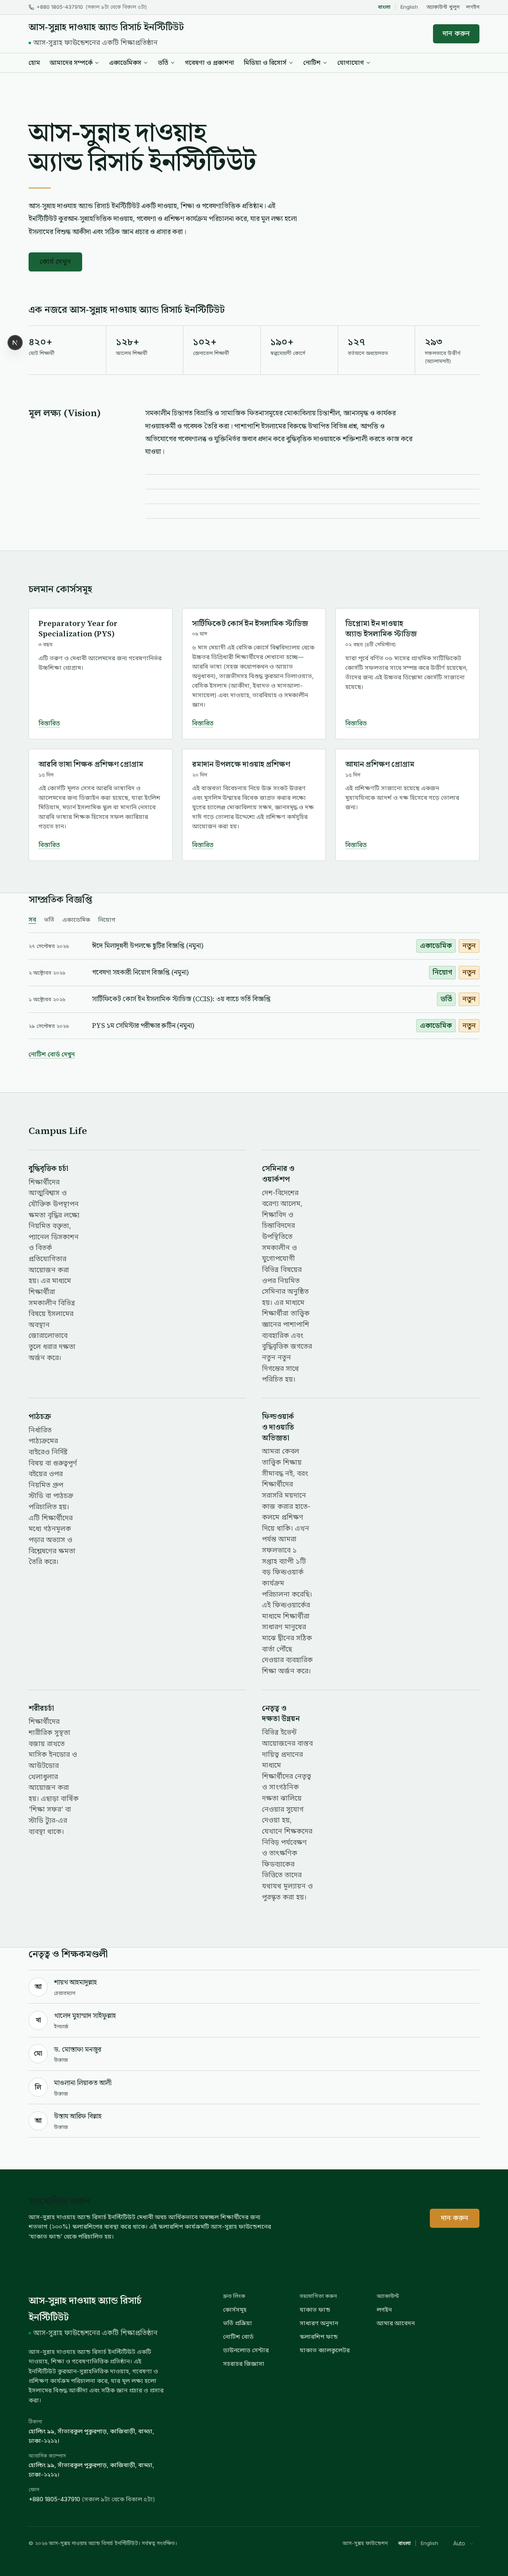
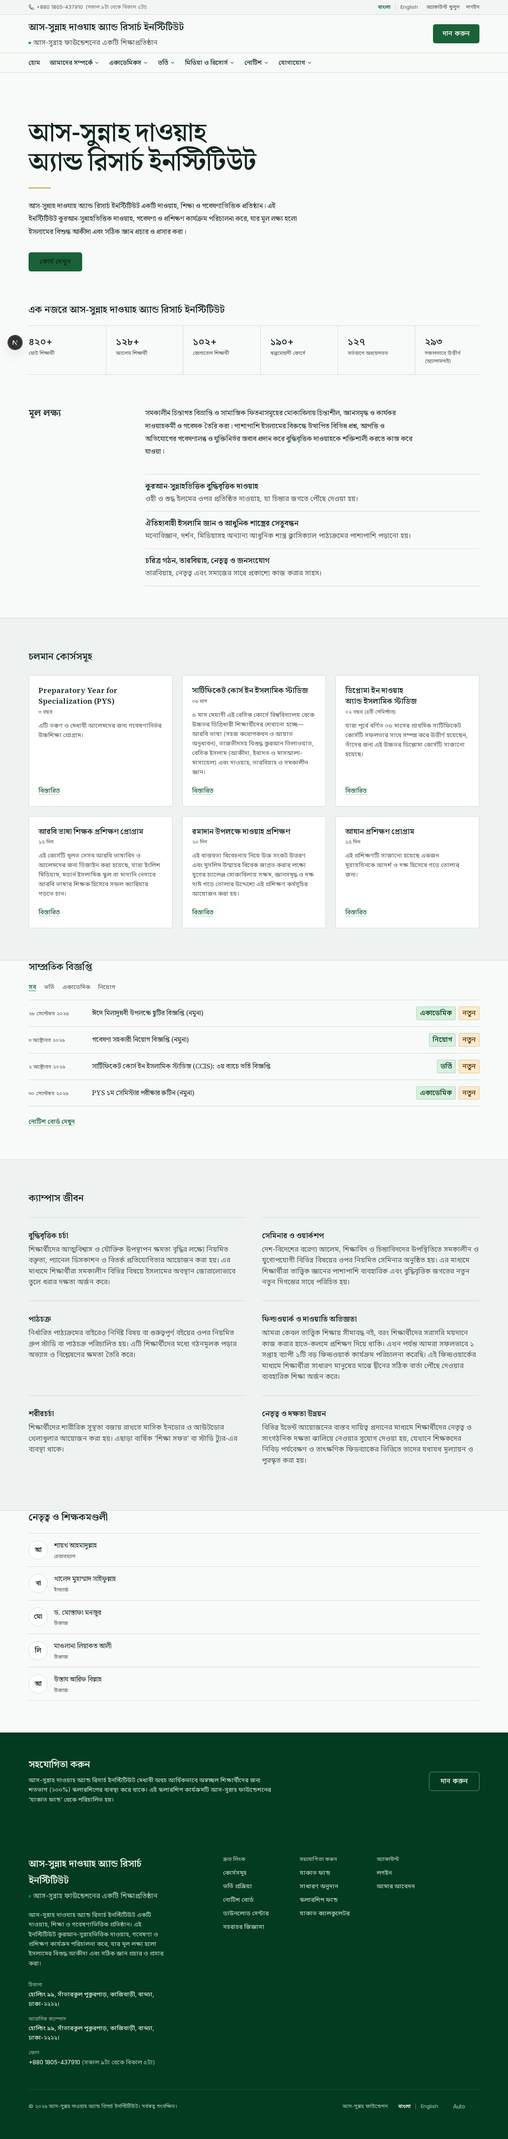
fix(home): review items 1-4, 6, 9, 10 — campus layout, support band, one gold, dead nav parents, baseline docs, Bangla headings and pillar drafts
1. CampusSection reserves the two-column image template only when an item
   actually has an image; image-less items (the current state, GAP-C6 photo
   slots) get a full-width single column instead of a 8rem ribbon of text.
2. SupportSection h2 carries text-primary-foreground: the global h1-h6 rule
   paints headings in dark ink, invisible on the dark-green band (measured
   1.02:1; now 17.61:1).
3. One illumination per screen: the donate button is now an outline-on-dark
   treatment (17.6:1 text and border, rest and hover); the hero hairline
   stays the page's single gold. The gold fill measured only 2.87:1 on the
   band; the green default variant's shape blends in at 1.15:1 and the
   secondary variant's dark text fails on hover — notes in the component.
4. Header: a parent that exists only to group children is dropped when every
   child is hidden by its module flag (গবেষণা ও প্রকাশনা no longer renders a
   dead link to /research/library); footer columns with no visible links
   disappear instead of rendering a heading over nothing.
6. infra/README.md documents the snapshot baseline: what it is, why it
   exists, that the generator diffs from the lexicographically latest json,
   and the rule for future parallel branches.
9. Bangla headings seeded: মূল লক্ষ্য and ক্যাম্পাস জীবন (the client's
   mixed-language document printed 'মূল লক্ষ্য (Vision)' and 'Campus Life');
   the client's English forms stay in the en locale.
[…]

diff --git a/src/endpoints/seed/home.ts b/src/endpoints/seed/home.ts
@@ -7,10 +7,13 @@
  * Composed headings flagged for the office (the documents give them only in English):
  *  - notices heading "সাম্প্রতিক বিজ্ঞপ্তি" (the document's section is simply বিজ্ঞপ্তি)
  *  - people heading "নেতৃত্ব ও শিক্ষকমণ্ডলী"
- * The three pillars exist in the client's English document only; Bangla is left empty for the
- * office to provide, and the section renders without them in the meantime. The intro video and
- * campus photos do not exist yet (GAP-C6); the hero stays typographic and the campus list
- * carries no images until they arrive.
+ * Bangla headings the client's mixed-language document printed in English are seeded in
+ * Bangla on the bn side ("মূল লক্ষ্য", "ক্যাম্পাস জীবন"); the client's own English forms stay in
+ * the en locale (review item 9 — the office can change either in the home global).
+ * The Bangla pillar drafts below are translated from the client's English pillars and are
+ * marked as drafts in the PR — the office reviews and replaces them (review item 10). The
+ * intro video and campus photos do not exist yet (GAP-C6); the hero stays typographic and
+ * the campus list carries no images until they arrive.
  */
 export const homeSeed = {
   bn: {
@@ -30,10 +33,25 @@ export const homeSeed = {
       {
         blockType: 'vision',
         enabled: true,
-        heading: 'মূল লক্ষ্য (Vision)',
+        heading: 'মূল লক্ষ্য',
         statement:
           'সমকালীন চিন্তাগত বিভ্রান্তি ও সামাজিক ফিতনাসমূহের মোকাবিলায় চিন্তাশীল, জ্ঞানসমৃদ্ধ ও কার্যকর দাওয়াহকর্মী ও গবেষক তৈরি করা। পাশাপাশি ইসলামের বিরুদ্ধে উত্থাপিত বিভিন্ন প্রশ্ন, আপত্তি ও অভিযোগের গবেষণালব্ধ ও যুক্তিনির্ভর জবাব প্রদান করে বুদ্ধিবৃত্তিক দাওয়াহকে শক্তিশালী করতে কাজ করে যাওয়া।',
-        pillars: [],
+        // BN draft from the client's English pillars (review item 10) — the office confirms or
+        // replaces these three; the EN versions are the client's own words.
+        pillars: [
+          {
+            title: 'কুরআন-সুন্নাহভিত্তিক বুদ্ধিবৃত্তিক দাওয়াহ',
+            body: 'ওহী ও শুদ্ধ ইলমের ওপর প্রতিষ্ঠিত দাওয়াহ, যা চিন্তার জগতে পৌঁছে দেওয়া হয়।',
+          },
+          {
+            title: 'ঐতিহ্যবাহী ইসলামি জ্ঞান ও আধুনিক শাস্ত্রের সেতুবন্ধন',
+            body: 'মনোবিজ্ঞান, দর্শন, মিডিয়াসহ অন্যান্য আধুনিক শাস্ত্র ক্লাসিক্যাল পাঠ্যক্রমের পাশাপাশি পড়ানো হয়।',
+          },
+          {
+            title: 'চরিত্র গঠন, তারবিয়াহ, নেতৃত্ব ও জনসংযোগ',
+            body: 'তারবিয়াহ, নেতৃত্ব এবং সমাজের সাথে প্রকাশ্যে কাজ করার সাহস।',
+          },
+        ],
       },
       {
         blockType: 'programmes',
@@ -55,7 +73,7 @@ export const homeSeed = {
       {
         blockType: 'campusLife',
         enabled: true,
-        heading: 'Campus Life',
+        heading: 'ক্যাম্পাস জীবন',
         items: [
           {
             title: 'বুদ্ধিবৃত্তিক চর্চা',

diff --git a/src/components/home/SupportSection.tsx b/src/components/home/SupportSection.tsx
@@ -12,9 +12,12 @@ type SupportBlock = Extract<NonNullable<Home['sections']>[number], { blockType: 
 
 /**
  * The single calm support band (REQ-HOME-10, phase 1 scope): the dark-green band shared with
- * the Foundation's site, one line about where the money goes, and the one illuminated button
- * leading to the donation page. No fund grid, no calculator here yet — those belong to the
- * donation module with its own screens.
+ * the Foundation's site, one line about where the money goes, and the button leading to the
+ * donation page. No fund grid, no calculator here yet — those belong to the donation module
+ * with its own screens. The hero hairline is the home page's single gold (docs/05 §3b); the
+ * button here is an outline-on-dark treatment — measured 17.6:1 text and border against the
+ * band in rest and hover (review items 2–3; `secondary`'s dark text fails on its hover state
+ * over the band, and the green `default` shape blends into the band at 1.15:1).
  */
 export function SupportSection({
   block,
@@ -36,7 +39,9 @@ export function SupportSection({
       <div className="container">
         <div className="grid items-center gap-8 md:grid-cols-12">
           <div className="md:col-span-8">
-            <h2 className="font-serif text-h3 font-semibold">{block.heading}</h2>
+            <h2 className="font-serif text-h3 font-semibold text-primary-foreground">
+              {block.heading}
+            </h2>
             {block.body && (
               <p className="mt-3 max-w-[68ch] text-small leading-relaxed text-primary-foreground/85">
                 {block.body}
@@ -44,7 +49,12 @@ export function SupportSection({
             )}
           </div>
           <div className="md:col-span-4 md:justify-self-end">
-            <Button asChild variant="illuminated" size="lg">
+            <Button
+              asChild
+              variant="outline"
+              size="lg"
+              className="border-primary-foreground/50 text-primary-foreground hover:border-primary-foreground hover:bg-primary-foreground/10 hover:text-primary-foreground"
+            >
               <Link href={localizedHref(locale, '/donate')}>{block.ctaLabel || dict.header.donate}</Link>
             </Button>
           </div>

diff --git a/src/components/home/CampusSection.tsx b/src/components/home/CampusSection.tsx
@@ -4,6 +4,7 @@ import React from 'react'
 import type { Home, Media } from '@/payload-types'
 
 import { getMediaUrl } from '@/utilities/getMediaUrl'
+import { cn } from '@/utilities/ui'
 
 type CampusBlock = Extract<
   NonNullable<Home['sections']>[number],
@@ -28,10 +29,16 @@ export function CampusSection({ block }: { block: CampusBlock }) {
           {items.map((item, i) => {
             const image =
               item.image && typeof item.image === 'object' ? (item.image as Media) : null
+            // The two-column template (image | text) is reserved only when an image actually
+            // exists; without one the item is a single full-width column (review item 1).
+            const hasImage = Boolean(image?.url)
             return (
               <li
                 key={item.id ?? i}
-                className="grid gap-4 border-t border-border py-8 sm:grid-cols-[8rem_minmax(0,1fr)] sm:gap-x-8"
+                className={cn(
+                  'grid gap-4 border-t border-border py-8 sm:gap-x-8',
+                  hasImage && 'sm:grid-cols-[8rem_minmax(0,1fr)]',
+                )}
               >
                 {image?.url && (
                   <span className="relative block aspect-[4/3] overflow-hidden rounded-sm border border-border">

diff --git a/src/components/site/Header/index.tsx b/src/components/site/Header/index.tsx
@@ -27,19 +27,27 @@ export async function SiteHeader({ locale }: { locale: Locale }) {
 
   const items: NavItem[] = (nav.primary ?? [])
     .filter((item) => enabled(item.feature))
-    .map((item) => ({
-      label: item.label,
-      href: href(item.href),
-      newTab: Boolean(item.newTab),
-      children: (item.children ?? [])
+    .flatMap((item) => {
+      const children = (item.children ?? [])
         .filter((child) => enabled(child.feature))
         .map((child) => ({
           label: child.label,
           href: href(child.href),
           newTab: Boolean(child.newTab),
           description: child.description ?? undefined,
-        })),
-    }))
+        }))
+      // A parent that exists only to group children disappears when every child is hidden
+      // by its module flag — its own href leads to a page that does not exist (review item 4).
+      if ((item.children?.length ?? 0) > 0 && children.length === 0) return []
+      return [
+        {
+          label: item.label,
+          href: href(item.href),
+          newTab: Boolean(item.newTab),
+          children,
+        },
+      ]
+    })
 
   const utility: NavItem[] = (nav.utility ?? [])
     .filter((item) => enabled(item.feature))

diff --git a/src/components/site/Footer/index.tsx b/src/components/site/Footer/index.tsx
@@ -44,10 +44,14 @@ export async function SiteFooter({ locale }: { locale: Locale }) {
       : null
   const logo = settings.logo && typeof settings.logo === 'object' ? (settings.logo as Media) : null
   const year = formatNumber(new Date().getFullYear(), locale, { useGrouping: false })
-  const columns = (nav.footerColumns ?? []).map((col) => ({
-    label: col.label,
-    links: (col.links ?? []).filter((l) => enabled(l.feature)),
-  }))
+  // A column whose every link is hidden by its module flag disappears rather than rendering
+  // its heading above nothing (review item 4, same rule as the header's parent items).
+  const columns = (nav.footerColumns ?? [])
+    .map((col) => ({
+      label: col.label,
+      links: (col.links ?? []).filter((l) => enabled(l.feature)),
+    }))
+    .filter((col) => col.links.length > 0)
 
   return (
     <footer className="mt-auto bg-primary-deep text-primary-foreground">

diff --git a/src/globals/home/homeBlocks.ts b/src/globals/home/homeBlocks.ts
@@ -66,7 +66,7 @@ export const VisionBlock: Block = {
   labels: { singular: 'Vision & pillars', plural: 'Vision & pillars' },
   fields: [
     enabledField(true),
-    headingField('e.g. মূল লক্ষ্য (Vision)'),
+    headingField('e.g. মূল লক্ষ্য (bn) / Vision (en)'),
     {
       name: 'statement',
       type: 'textarea',
@@ -81,7 +81,7 @@ export const VisionBlock: Block = {
       admin: {
         components: { RowLabel: '@/components/admin/RowLabel#RowLabel' },
         description:
-          'Three pillars under the statement. Empty in Bangla until the office provides translations.',
+          'Three pillars under the statement. English is the client’s own; the Bangla drafts are translated from it for the office to confirm or replace.',
       },
       fields: [
         { name: 'title', type: 'text', localized: true, required: true },

diff --git a/src/payload-types.ts b/src/payload-types.ts
@@ -2586,7 +2586,7 @@ export interface Home {
         | {
             enabled?: boolean | null;
             /**
-             * e.g. মূল লক্ষ্য (Vision)
+             * e.g. মূল লক্ষ্য (bn) / Vision (en)
              */
             heading: string;
             /**
@@ -2594,7 +2594,7 @@ export interface Home {
              */
             statement: string;
             /**
-             * Three pillars under the statement. Empty in Bangla until the office provides translations.
+             * Three pillars under the statement. English is the client’s own; the Bangla drafts are translated from it for the office to confirm or replace.
              */
             pillars?:
               | {

diff --git a/src/components/home/VisionSection.tsx b/src/components/home/VisionSection.tsx
@@ -9,8 +9,9 @@ type VisionBlock = Extract<
 
 /**
  * The vision statement and its three pillars (REQ-HOME-03). The statement is the client's own
- * text in the reading column; the pillars — which the client's document gives in English only —
- * render as a ruled list when present. Not numbered: the pillars are not a sequence.
+ * text in the reading column; the pillars render as a ruled list when present (the client's
+ * document gives them in English; the Bangla ones are seeded drafts for the office to confirm
+ * — review item 10). Not numbered: the pillars are not a sequence.
  */
 export function VisionSection({ block }: { block: VisionBlock }) {
   const pillars = block.pillars ?? []

diff --git a/infra/README.md b/infra/README.md
@@ -24,8 +24,37 @@ Then `bun run dev` from the repo root. RustFS console at http://localhost:9001, 
 - `migrate:create` prompts (interactively) when one run both drops and creates tables or enums
   of the same kind ("created or renamed?"). Avoid the prompt by splitting such a change into two
   migrations: first remove, then add (see the two `site_shell` migrations for an example).
-- Starter content: `bun run seed` writes site settings, navigation and impact stats in bn + en.
-  It is idempotent and never touches collections.
+- Starter content: `bun run seed` writes the site globals (settings, navigation, impact stats,
+  home), and upserts the starter collections (people, courses, sample notices) by slug in bn + en.
+  It is idempotent: re-running overwrites the seeded starter content with the same values and
+  leaves anything the office has added untouched (items are matched by slug).
+
+### The snapshot baseline (`20261003_173205_schema_baseline.json`)
+
+`migrate:create` does not diff against the database or the last applied migration: it diffs the
+current schema against the **lexicographically latest `*.json` snapshot** in `src/migrations/`.
+When several feature branches each carry their own migration, their snapshots each describe a
+different partial schema, so after merging such branches a naive `migrate:create` would try to
+re-create tables that already exist (dropped on another branch, missing on this one).
+
+The baseline file exists to close that gap: it is a **snapshot-only** migration — a full picture
+of the merged schema (people + courses + notices, everything before the home global) that is
+**deliberately not imported by `src/migrations/index.ts`** and never runs. Its only job is to be
+the lexicographically latest snapshot at the time it was cut, so the generator diffs from a
+complete picture instead of a partial one. (`20261003_173258_home_global.json` and everything
+generated after it now serve the same role as they are later in sort order.)
+
+**Rule for parallel branches:** after merging a branch that added a migration, regenerate the
+baseline on the merged branch *before* creating the next migration — point the generator at a
+complete schema by keeping the latest snapshot accurate. In practice: merge, then
+`bun run payload migrate:create baseline_refresh` (or cut a new snapshot-only baseline) whenever
+the newest `.json` in the folder predates tables that already exist on your branch. Never
+hand-edit snapshots; never reference the baseline from `index.ts`.
+
+One more generator quirk: run `migrate:create` **with the S3 variables set** (or empty), matching
+how the committed migration history was generated — otherwise the generated diff drops
+`media._objectkey` from the chain.
+
 
 ## Coolify (staging / production)
 
